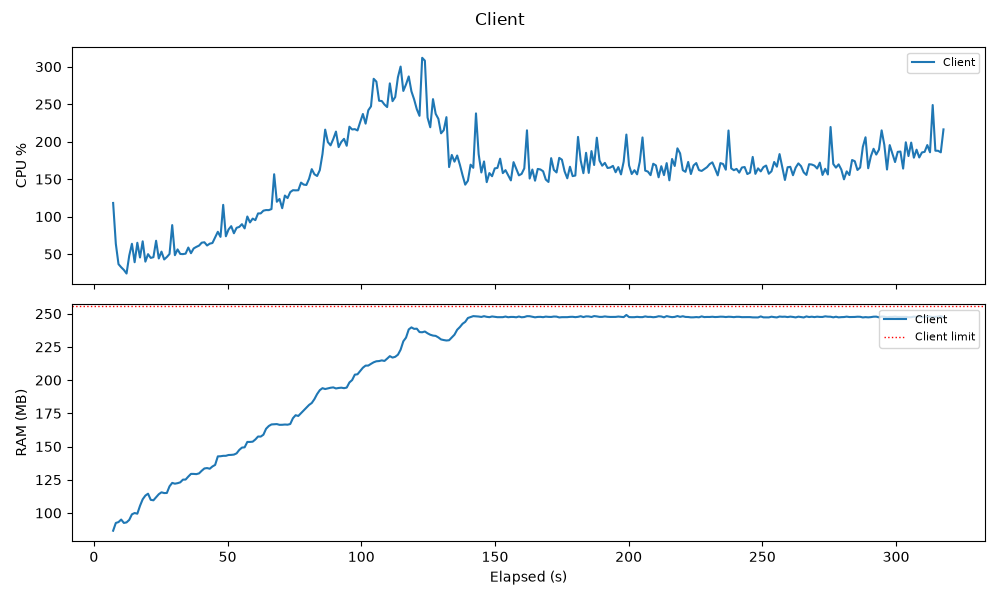
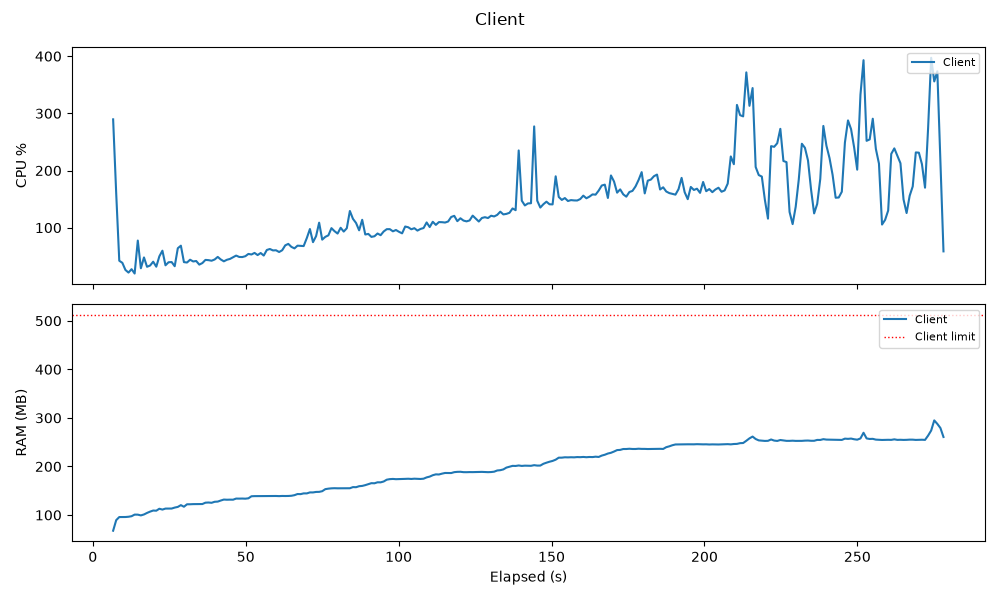
update report

diff --git a/benchmark/benchmark.py b/benchmark/benchmark.py
@@ -20,9 +20,9 @@ import matplotlib.pyplot as plt
 # Resource Profile (ADR-0008): hard CPU/RAM cap per process, enforced by Docker.
 # Script config, not a CLI flag -- edit here to test a different envelope.
 SERVER_CPUS = 2.0
-SERVER_MEMORY_MB = 4096
+SERVER_MEMORY_MB = 512
 CLIENT_CPUS = 4.0
-CLIENT_MEMORY_MB = 4096
+CLIENT_MEMORY_MB = 512
 
 SERVER_IMAGE = "registration-server:latest"
 CLIENT_IMAGE = "registration-client:latest"
